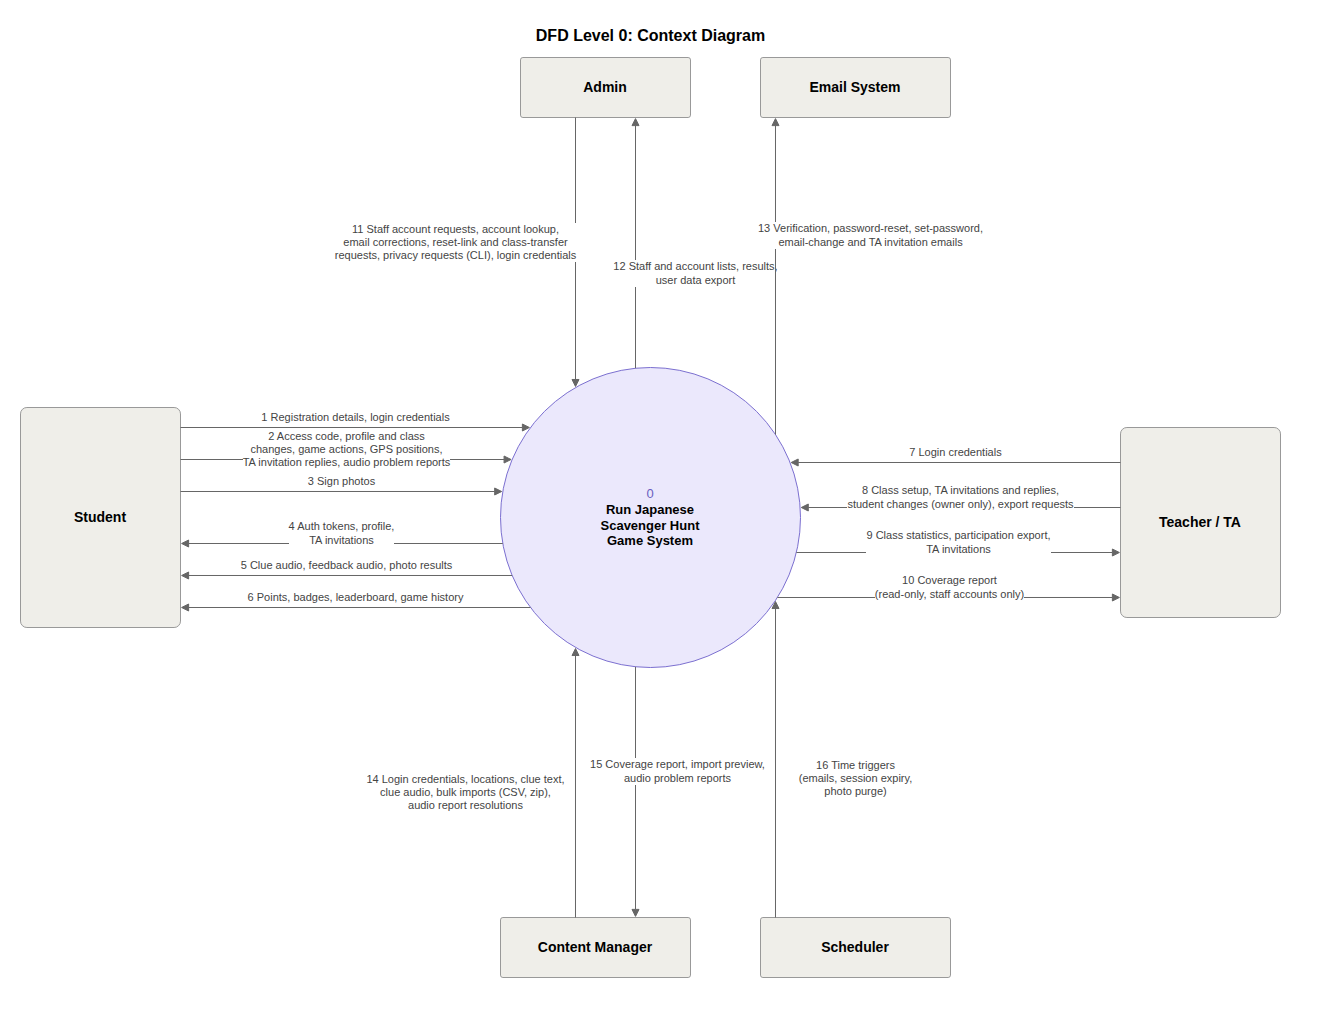
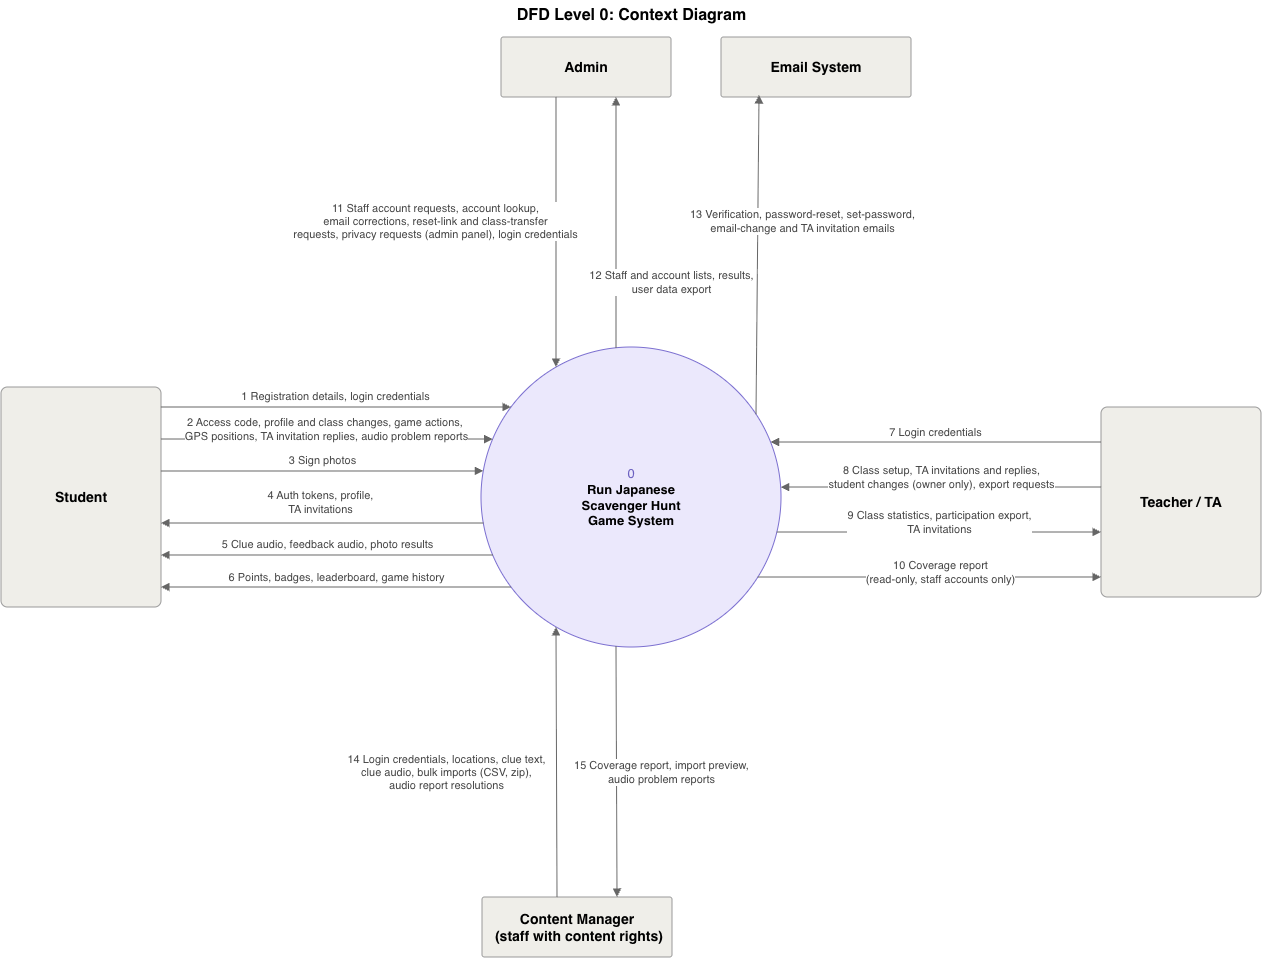
docs: add week 11 team log (#453)
* docs: add week 11 team log and the updated diagrams

* docs: update the week 11 team log with the last merges and the change-password flows

diff --git a/logs/team/week-11.md b/logs/team/week-11.md
@@ -1,0 +1,107 @@
+# Week 11 Team Log (Nov. 16 - Nov. 22)
+
+Authors: Mia Kuang
+
+## Goal
+
+This week, we decided to focus on merging the stacks left open in week 10, with the goal of running the client demo on the real backend on Nov 19. The stacks were photo verification (A10), streaks and challenges (A13), the class leaderboard (A14), class analytics (A16), content from the database (A20) and the account routes (A22, A24). We also planned to remove repeated code and update the DFDs and the system architecture (observed: week 10 team log).
+
+## Work distribution
+
+Only PRs merged into `origin/main` between Nov 16 and Nov 22 count as merged. Details are in each person's individual log.
+
+- **Mia** focused on rate limits (#322), class staff checks on the routes (#378), the A4 response scan (#71) and CI.
+  - *Merged:* 13 PRs, 53 files, +1,110/-674: #375, #377, #379, #380, #383, #388, #390, #392, #394, #396, #399, #451 and #454. See `logs/MiaKuang/week-11.md`.
+  - *Not merged yet:* #401, #402, #403, #404, #442 and #446.
+- **Eddy** focused on photo verification (A10) and reading content from the database (A20).
+  - *Merged:* 17 PRs, 81 files, +4,369/-825: #301, #303, #321, #341, #342, #344, #346, #374, #376, #386, #387, #391, #397, #398, #405, #408 and #409.
+  - *Not merged yet:* #296 and #304.
+- **Fabiha** focused on streaks and challenges (A13), the class leaderboard (A14) and class analytics (A16).
+  - *Merged:* 14 PRs, 60 files, +4,838/-144: #356, #357, #359, #360, #362, #363, #365, #367, #369, #370, #371, #372, #382 and #384.
+  - *Not merged yet:* 14 PRs for the A5, A6, A12, A16 and A17 follow-ups.
+- **Kaedyn** focused on the account routes (A22, A24) and the admin API (A27).
+  - *Merged:* 3 PRs, 13 files, +804/-55: #323 (logout), #324 (profile) and #325 (change password).
+  - *Not merged yet:* #410, #415, #439, #440 and #445.
+
+We considered two other workload distributions (Mia considered). First, #322 could have stayed with Kaedyn, who wrote the first rate limit. Mia took it because Kaedyn's admin API (A27) was already late. Second, Mia could have taken over A21 (#77) as well, since Eddy's photo purge (#94) is blocked on it. We kept A21 with Kaedyn and asked him to do it first. All of his remaining work must be merged, not just opened, by Nov 29. Anything not merged by then moves to the rest of the team. If that happens, we will all talk to the professor at office hours on Dec 3 about how the work is split.
+
+## Client demo branch (not on main)
+
+Mia and Eddy built a small web app for the Nov 19 client demo on `demo/client-demo`. It is not merged and doesn't count above: M1 is backend only, and the real web app comes in M2. It has 19 commits, 15 files and +2,801 lines (observed: branch log).
+
+- **Mia** wrote the app shell, the API client and the student and teacher screens: login, joining a class, the game, history, the leaderboard and class analytics. She also added the class switcher, every badge with locked ones dimmed, and analytics labelled by room.
+- **Eddy** wrote the photo module: taking or uploading a photo and showing the result.
+
+The demo ran on the real backend from Mia's machine, and we played it on our phones. We will reuse the branch with the latest main for the final presentation.
+
+## Goal evaluation
+
+Based on the merged PRs on main, we met most of the goal (observed: main log). 47 PRs were merged: 17 by Eddy, 14 by Fabiha, 13 by Mia and 3 by Kaedyn.
+
+- **Met:** a game can now finish a location from a photo, with content read from the database. Streaks, daily challenges, the class leaderboard and class analytics are on main. #322 (rate limits) and #71 (A4) are closed. The Nov 19 client demo ran on this code (see above).
+- **Not met:** the admin API (A27) is still open. Most of the repeated-code refactors are open too.
+- **Challenges:** most stacks merged on the evening of Nov 17. Three of us reviewed and merged them together, just before the demo. Reviews of the newer stacks came on Nov 21 and 22.
+- **Over the size limit:** #372 (participation export) changed 565 lines. The export and its tests landed in one PR (inferred from its diff).
+- **Files over 500 lines:** `api/v1/classes.py` grew from 470 to 745 lines with the A16 routes. `engagement/interface.py` (726), `tests/backend/conftest.py` (686) and `tests/backend/test_engagement_interface.py` (812) were already over and grew. Each holds one kind of code for a whole component. Splitting them by feature is a follow-up.
+- **Plan for next week:** merge the open PRs early in the week, then the work in Next week.
+- **Limitation:** three merged PRs don't show how far Kaedyn's work is behind. Sign-in (A2) is still open from M1-1, due Oct 11. A27 was due Oct 25, and its first PRs opened on Nov 19 (observed: PR list). He has merged 16 PRs into main this term, against 39 to 87 for each of the rest of us.
+
+## Code quality
+
+- **Similar logic implemented multiple times:** Mia ran a duplicate-code scan on main and checked it by hand (#400). It found repeated game errors, class name checks and staff lookups. Therefore, Mia opened #404 and #446, which are not merged yet. On main, #388 removed four copies of the class role query. Eddy's #386 lets the photo route reuse the game actions' runner instead of copying it (DRY). Kaedyn's #325 shares the reset-mail cancel and the refresh cookie code with the existing routes.
+- **Many dependencies between modules:** `utils/dep_graph.py --check` passes at the end of the week (observed: 88 modules, 376 import edges, no rule broken). The photo route links game and verification through their interfaces only.
+- **Changes in one component require changes elsewhere:** only #388 changed two components (observed: files changed per PR). It moved the role checks out of four engagement services into one accounts dependency. Engagement can't import accounts, so the check had to move to the routes.
+
+Now, the team can confirm that the merged code has no new repeated logic and no rule-breaking dependencies. The remaining duplication is tracked in #400 and #354.
+
+## DFD
+
+We updated the DFDs this week, based on main as of Nov 19.
+
+- **Level 0 (context):** **Updated.** The Scheduler is no longer an external entity, because it runs inside our system. Content Manager is now labelled as a staff account with content rights, not a fourth account type.
+- **Level 1 (overview):** **New.** It shows the five components, the flows between them, the stores D1 to D8 and the scheduler container. Its flows were checked against every Level 2 diagram.
+- **Level 2:** the component diagrams were renamed from Level 1 to Level 2.
+  - 1.0 Auth & Accounts: 1.4 Manage profile **Updated** (changing the password revokes every refresh token, stops unused email links and cancels a waiting reset email, #325). 1.5 Send queued emails **Updated** (runs every minute; skips a reset email whose link was already used). Other processes (not changed).
+  - 2.0 Game Session: 2.2 Serve current location and 2.5 Control session **Updated** (quit and a skipped last location return the game summary). 2.8 Expire idle sessions **Updated** (every 5 minutes). Other processes (not changed).
+  - 3.0 Photo Verification: 3.7 Purge old photos **Updated** (marked not yet scheduled). Other processes (not changed).
+  - 4.0 Class & Engagement: 4.6 Report engagement **Updated** (sends a game's level and badges to the game summary). Other processes (not changed).
+  - 5.0 Content Management: **Updated** (the Content Manager entity is labelled as a staff account with content rights). Its processes (not changed).
+
+![DFD Level 0](img/dfd_level0_context.png)
+
+![DFD Level 1 overview](img/dfd_level1_overview.png)
+
+![1.0 Auth & Accounts](img/dfd_level2_auth_accounts.png)
+![2.0 Game Session](img/dfd_level2_game_session.png)
+![3.0 Photo Verification](img/dfd_level2_photo_verification.png)
+![4.0 Class & Engagement](img/dfd_level2_class_engagement.png)
+![5.0 Content Management](img/dfd_level2_content_management.png)
+
+We considered one alternative data flow (AI-suggested): the overview could show every store read by each component. We left the export and anonymise reads out and listed them in a note, so the overview stays readable.
+
+## System architecture
+
+We updated the system architecture diagram this week.
+
+![System architecture](img/system_architecture.png)
+
+- **Rate limiter:** the shared core now lists "rate limiter (limits, in memory)" instead of slowapi (#392). slowapi never limited any `/api/v1` route on FastAPI 0.142, and its 429 handler used slowapi's private API. The counters live in the API process, which matches our one-worker deployment.
+- **nginx:** the box now says it passes the client IP in `X-Forwarded-For` (#396). The per-IP limits need the real client address behind the proxy.
+- **Links:** each component box now opens its Level 2 diagram, and the backend container opens the Level 1 overview.
+- **Alternative components:** we could have kept slowapi and patched its middleware (AI-suggested). We dropped it because the fix would still depend on its private API.
+- **Alternative dependencies:** the counters could live in Redis, so several API workers share them (AI-suggested). We kept them in memory because the spec runs one worker, and Redis would add a container.
+
+## Collaboration process
+
+We changed our process in two ways. First, we reviewed and merged the waiting stacks together on the evening of Nov 17. Second, CI can now run several jobs on one VM (#377), so runs don't queue behind each other.
+
+The reason was the backlog. Most stacks had waited a week for reviews and had to merge before the demo. We considered keeping one reviewer per stack (AI-suggested). We dropped it because one person couldn't review every stack in time.
+
+## Next week
+
+We will:
+
+- **Merge** the open follow-ups and the admin API early in the week, so fixes have time to land.
+- **Finish** the remaining account work, starting with A21, by Nov 29 (see Work distribution).
+- **Act on feedback:** Basic games stay in one building (client), and clue plays are recorded (professor).
+- **Update** the diagrams for the new features, and keep the README in step with main.
